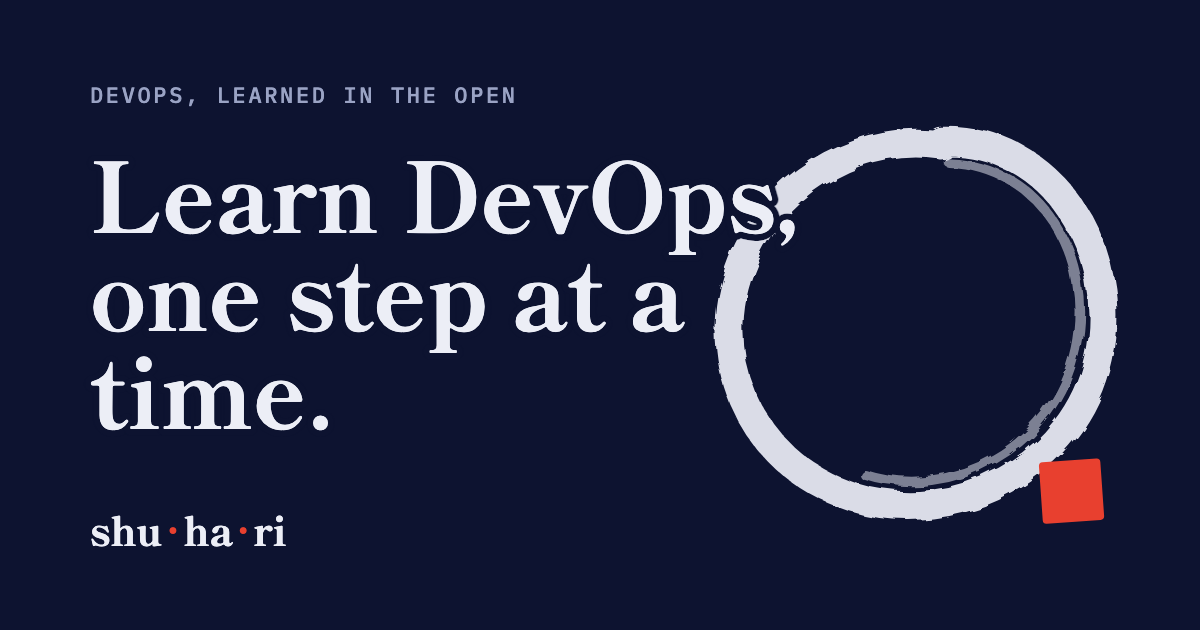
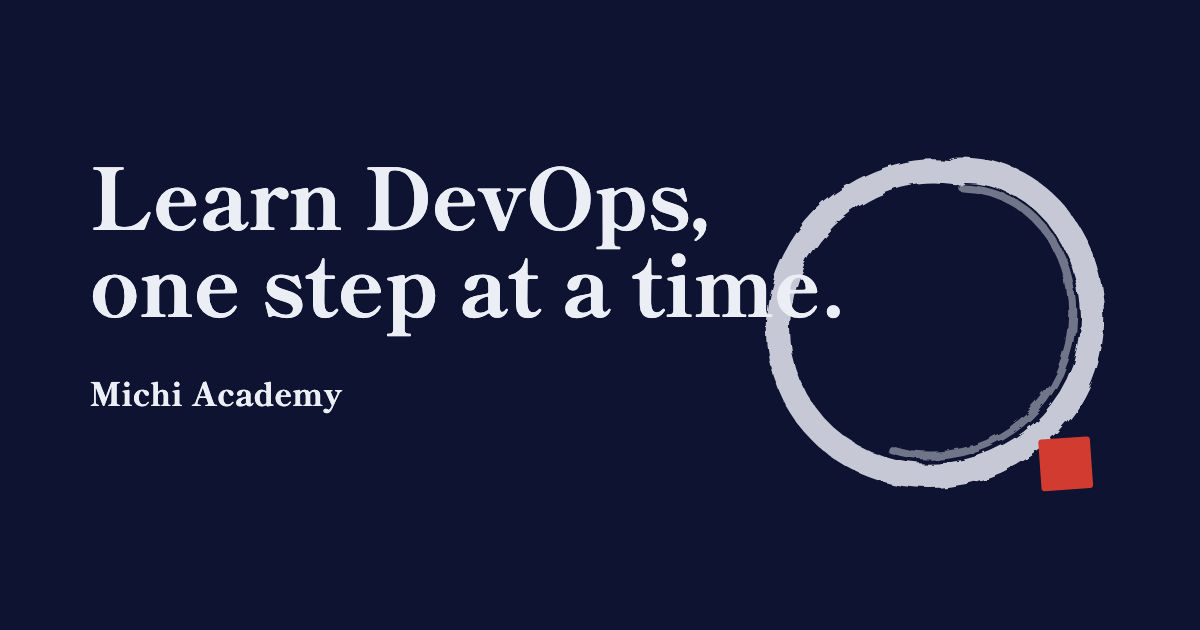
Rename the site to Michi Academy
- Change the name to Michi Academy across the layout, page titles,
  descriptions, README and curriculum comment
- Replace the shu·ha·ri definition on the home page with a short
  definition of michi, and remove the three-stage columns
- Swap the shu·ha·ri wordmark for "Michi Academy" on the social
  banners and the share image, and drop the old tagline from it
- Add a source file for the share image so it can be regenerated
- Move the site address to d-kens.github.io/michi after the repo
  rename

diff --git a/build.js b/build.js
@@ -8,9 +8,9 @@ const { marked } = require('./vendor/marked.min.js');
 const hljs = require('./vendor/highlight.min.js');
 const { NOTES, PHASES, MODULES } = require('./curriculum.js');
 
-const SITE = 'https://d-kens.github.io/shuhari';       /* the live address, without a trailing slash */
-const BASE = new URL(SITE).pathname + '/';              /* '/shuhari/': the 404 page needs absolute links */
-const NAME = 'Shuhari Academy';
+const SITE = 'https://d-kens.github.io/michi';       /* the live address, without a trailing slash */
+const BASE = new URL(SITE).pathname + '/';              /* '/michi/': the 404 page needs absolute links */
+const NAME = 'Michi Academy';
 const HOME_DESC = 'Learn DevOps, one step at a time. Detailed notes for a step-by-step path, from the DevOps mindset to running systems in production.';
 const ASSETS = ['styles.css', 'theme.js', 'search.js', 'notes.js', 'favicon.svg', 'og-image.png'];
 const LABEL = { published: 'Notes published', progress: 'In progress', coming: 'Coming' };
@@ -80,7 +80,7 @@ ${share}
 
 <div class="wrap">
   <nav aria-label="Site">
-    <a class="logo" href="${r}index.html" aria-label="${NAME}">Shuhari<span class="logo-rest" aria-hidden="true"> Academy</span></a>
+    <a class="logo" href="${r}index.html" aria-label="${NAME}">Michi<span class="logo-rest" aria-hidden="true"> Academy</span></a>
     <ul>
       ${navLink('paths.html', 'The path', 'paths')}
       ${navLink('search.html', 'Search', 'search')}
@@ -202,7 +202,7 @@ fs.rmSync(OUT, { recursive: true, force: true });
 ASSETS.forEach((f) => { fs.mkdirSync(OUT, { recursive: true }); fs.copyFileSync(path.join(ROOT, f), path.join(OUT, f)); });
 
 write('index.html', layout({ url: '', description: HOME_DESC, body: read('src/pages/index.html').replace('<!-- PATH AT A GLANCE: filled in by build.js -->', glance()) }));
-write('search.html', layout({ url: 'search.html', title: 'Search', description: 'Search the Shuhari Academy DevOps notes and curriculum.',
+write('search.html', layout({ url: 'search.html', title: 'Search', description: 'Search the Michi Academy DevOps notes and curriculum.',
   current: 'search', body: read('src/pages/search.html'), scripts: ['search.js'] }));
 write('404.html', layout({ root: BASE, title: 'Page not found', noindex: true, body: read('src/pages/404.html').replace(/href="(?![a-z]+:|\/|#)/g, `href="${BASE}`) }));
 write('paths.html', layout({ url: 'paths.html', title: 'The path', current: 'paths', body: pathsPage(),
@@ -219,7 +219,7 @@ published.forEach((m) => {
   searchIndex.push(...notes.entries);
   write(`notes/${m.slug}.html`, layout({
     root: '../', url: `notes/${m.slug}.html`, title: m.title, ogType: 'article', current: 'paths', currentKind: 'true',
-    description: `Notes for Module ${m.num} of the Shuhari DevOps path: ${m.title}. ${m.tags.join(', ')}.`,
+    description: `Notes for Module ${m.num} of the Michi Academy DevOps path: ${m.title}. ${m.tags.join(', ')}.`,
     body: notesPage(m, notes), scripts: ['notes.js']
   }));
 });

diff --git a/brand/src/banner-linkedin-1584x396.html b/brand/src/banner-linkedin-1584x396.html
@@ -7,7 +7,6 @@ html,body{margin:0;background:#0d1330;color:#eceef6;overflow:hidden}
 h1{font:800 var(--h)/1.04 "Shippori Mincho B1",serif;margin:0}
 .f{display:flex;gap:1.2em;align-items:baseline;margin-top:var(--g2);font:500 var(--k) "IBM Plex Mono",monospace;letter-spacing:.08em;color:#9aa3c4}
 .w{font:800 calc(var(--k)*1.6) "Shippori Mincho B1",serif;letter-spacing:.01em;color:#eceef6}
-.w span{color:#e8402f;padding:0 .08em}
 .enso{position:absolute}
 .t{position:absolute;z-index:1}
-.enso{left:70px;top:-120px;width:560px;opacity:.9}.t{right:80px;top:70px;text-align:right}.f{justify-content:flex-end}</style></head><body><div class="c" style="width:1584px;height:396px;--k:15px;--h:56px;--g:14px;--g2:22px"><svg class="enso" viewBox="0 0 520 520"><defs><filter id="r" x="-10%" y="-10%" width="120%" height="120%"><feTurbulence type="fractalNoise" baseFrequency="0.035" numOctaves="3" seed="7" result="n"/><feDisplacementMap in="SourceGraphic" in2="n" scale="9"/></filter></defs><g filter="url(#r)" fill="none" stroke-linecap="round" stroke="#eceef6"><path stroke-width="30" opacity=".92" d="M 292 74 C 410 70 480 190 456 300 C 432 412 308 478 200 444 C 92 410 40 290 92 186 C 130 110 214 66 292 78"/><path stroke-width="10" opacity=".5" d="M 300 96 C 398 100 452 196 432 290 C 410 392 304 450 212 420"/></g><rect x="396" y="406" width="64" height="64" rx="4" fill="#e8402f" transform="rotate(-4 428 438)"/></svg><div class="t"><h1>Learn DevOps,<br>one step at a time.</h1><div class="f"><span class="w">shu<span>·</span>ha<span>·</span>ri</span></div></div></div></body></html>
+.enso{left:70px;top:-120px;width:560px;opacity:.9}.t{right:80px;top:70px;text-align:right}.f{justify-content:flex-end}</style></head><body><div class="c" style="width:1584px;height:396px;--k:15px;--h:56px;--g:14px;--g2:22px"><svg class="enso" viewBox="0 0 520 520"><defs><filter id="r" x="-10%" y="-10%" width="120%" height="120%"><feTurbulence type="fractalNoise" baseFrequency="0.035" numOctaves="3" seed="7" result="n"/><feDisplacementMap in="SourceGraphic" in2="n" scale="9"/></filter></defs><g filter="url(#r)" fill="none" stroke-linecap="round" stroke="#eceef6"><path stroke-width="30" opacity=".92" d="M 292 74 C 410 70 480 190 456 300 C 432 412 308 478 200 444 C 92 410 40 290 92 186 C 130 110 214 66 292 78"/><path stroke-width="10" opacity=".5" d="M 300 96 C 398 100 452 196 432 290 C 410 392 304 450 212 420"/></g><rect x="396" y="406" width="64" height="64" rx="4" fill="#e8402f" transform="rotate(-4 428 438)"/></svg><div class="t"><h1>Learn DevOps,<br>one step at a time.</h1><div class="f"><span class="w">Michi Academy</span></div></div></div></body></html>

diff --git a/brand/src/banner-x-1500x500.html b/brand/src/banner-x-1500x500.html
@@ -7,7 +7,6 @@ html,body{margin:0;background:#0d1330;color:#eceef6;overflow:hidden}
 h1{font:800 var(--h)/1.04 "Shippori Mincho B1",serif;margin:0}
 .f{display:flex;gap:1.2em;align-items:baseline;margin-top:var(--g2);font:500 var(--k) "IBM Plex Mono",monospace;letter-spacing:.08em;color:#9aa3c4}
 .w{font:800 calc(var(--k)*1.6) "Shippori Mincho B1",serif;letter-spacing:.01em;color:#eceef6}
-.w span{color:#e8402f;padding:0 .08em}
 .enso{position:absolute}
 .t{position:absolute;z-index:1}
-.enso{left:40px;top:-140px;width:660px;opacity:.9}.t{right:80px;top:96px;text-align:right}.f{justify-content:flex-end}</style></head><body><div class="c" style="width:1500px;height:500px;--k:16px;--h:64px;--g:16px;--g2:26px"><svg class="enso" viewBox="0 0 520 520"><defs><filter id="r" x="-10%" y="-10%" width="120%" height="120%"><feTurbulence type="fractalNoise" baseFrequency="0.035" numOctaves="3" seed="7" result="n"/><feDisplacementMap in="SourceGraphic" in2="n" scale="9"/></filter></defs><g filter="url(#r)" fill="none" stroke-linecap="round" stroke="#eceef6"><path stroke-width="30" opacity=".92" d="M 292 74 C 410 70 480 190 456 300 C 432 412 308 478 200 444 C 92 410 40 290 92 186 C 130 110 214 66 292 78"/><path stroke-width="10" opacity=".5" d="M 300 96 C 398 100 452 196 432 290 C 410 392 304 450 212 420"/></g><rect x="396" y="406" width="64" height="64" rx="4" fill="#e8402f" transform="rotate(-4 428 438)"/></svg><div class="t"><h1>Learn DevOps,<br>one step at a time.</h1><div class="f"><span class="w">shu<span>·</span>ha<span>·</span>ri</span></div></div></div></body></html>
+.enso{left:40px;top:-140px;width:660px;opacity:.9}.t{right:80px;top:96px;text-align:right}.f{justify-content:flex-end}</style></head><body><div class="c" style="width:1500px;height:500px;--k:16px;--h:64px;--g:16px;--g2:26px"><svg class="enso" viewBox="0 0 520 520"><defs><filter id="r" x="-10%" y="-10%" width="120%" height="120%"><feTurbulence type="fractalNoise" baseFrequency="0.035" numOctaves="3" seed="7" result="n"/><feDisplacementMap in="SourceGraphic" in2="n" scale="9"/></filter></defs><g filter="url(#r)" fill="none" stroke-linecap="round" stroke="#eceef6"><path stroke-width="30" opacity=".92" d="M 292 74 C 410 70 480 190 456 300 C 432 412 308 478 200 444 C 92 410 40 290 92 186 C 130 110 214 66 292 78"/><path stroke-width="10" opacity=".5" d="M 300 96 C 398 100 452 196 432 290 C 410 392 304 450 212 420"/></g><rect x="396" y="406" width="64" height="64" rx="4" fill="#e8402f" transform="rotate(-4 428 438)"/></svg><div class="t"><h1>Learn DevOps,<br>one step at a time.</h1><div class="f"><span class="w">Michi Academy</span></div></div></div></body></html>

diff --git a/brand/src/github-social-1280x640.html b/brand/src/github-social-1280x640.html
@@ -7,7 +7,6 @@ html,body{margin:0;background:#0d1330;color:#eceef6;overflow:hidden}
 h1{font:800 var(--h)/1.04 "Shippori Mincho B1",serif;margin:0}
 .f{display:flex;gap:1.2em;align-items:baseline;margin-top:var(--g2);font:500 var(--k) "IBM Plex Mono",monospace;letter-spacing:.08em;color:#9aa3c4}
 .w{font:800 calc(var(--k)*1.6) "Shippori Mincho B1",serif;letter-spacing:.01em;color:#eceef6}
-.w span{color:#e8402f;padding:0 .08em}
 .enso{position:absolute}
 .t{position:absolute;z-index:1}
-.enso{right:50px;top:90px;width:470px}.t{left:84px;top:150px;max-width:720px}</style></head><body><div class="c" style="width:1280px;height:640px;--k:20px;--h:72px;--g:26px;--g2:44px"><svg class="enso" viewBox="0 0 520 520"><defs><filter id="r" x="-10%" y="-10%" width="120%" height="120%"><feTurbulence type="fractalNoise" baseFrequency="0.035" numOctaves="3" seed="7" result="n"/><feDisplacementMap in="SourceGraphic" in2="n" scale="9"/></filter></defs><g filter="url(#r)" fill="none" stroke-linecap="round" stroke="#eceef6"><path stroke-width="30" opacity=".92" d="M 292 74 C 410 70 480 190 456 300 C 432 412 308 478 200 444 C 92 410 40 290 92 186 C 130 110 214 66 292 78"/><path stroke-width="10" opacity=".5" d="M 300 96 C 398 100 452 196 432 290 C 410 392 304 450 212 420"/></g><rect x="396" y="406" width="64" height="64" rx="4" fill="#e8402f" transform="rotate(-4 428 438)"/></svg><div class="t"><h1>Learn DevOps,<br>one step at a time.</h1><div class="f"><span class="w">shu<span>·</span>ha<span>·</span>ri</span></div></div></div></body></html>
+.enso{right:50px;top:90px;width:470px}.t{left:84px;top:150px;max-width:720px}</style></head><body><div class="c" style="width:1280px;height:640px;--k:20px;--h:72px;--g:26px;--g2:44px"><svg class="enso" viewBox="0 0 520 520"><defs><filter id="r" x="-10%" y="-10%" width="120%" height="120%"><feTurbulence type="fractalNoise" baseFrequency="0.035" numOctaves="3" seed="7" result="n"/><feDisplacementMap in="SourceGraphic" in2="n" scale="9"/></filter></defs><g filter="url(#r)" fill="none" stroke-linecap="round" stroke="#eceef6"><path stroke-width="30" opacity=".92" d="M 292 74 C 410 70 480 190 456 300 C 432 412 308 478 200 444 C 92 410 40 290 92 186 C 130 110 214 66 292 78"/><path stroke-width="10" opacity=".5" d="M 300 96 C 398 100 452 196 432 290 C 410 392 304 450 212 420"/></g><rect x="396" y="406" width="64" height="64" rx="4" fill="#e8402f" transform="rotate(-4 428 438)"/></svg><div class="t"><h1>Learn DevOps,<br>one step at a time.</h1><div class="f"><span class="w">Michi Academy</span></div></div></div></body></html>

diff --git a/brand/src/banner-youtube-2560x1440.html b/brand/src/banner-youtube-2560x1440.html
@@ -7,7 +7,6 @@ html,body{margin:0;background:#0d1330;color:#eceef6;overflow:hidden}
 h1{font:800 var(--h)/1.04 "Shippori Mincho B1",serif;margin:0}
 .f{display:flex;gap:1.2em;align-items:baseline;margin-top:var(--g2);font:500 var(--k) "IBM Plex Mono",monospace;letter-spacing:.08em;color:#9aa3c4}
 .w{font:800 calc(var(--k)*1.6) "Shippori Mincho B1",serif;letter-spacing:.01em;color:#eceef6}
-.w span{color:#e8402f;padding:0 .08em}
 .enso{position:absolute}
 .t{position:absolute;z-index:1}
-.enso{left:540px;top:520px;width:400px}.t{left:1010px;top:590px}</style></head><body><div class="c" style="width:2560px;height:1440px;--k:20px;--h:76px;--g:18px;--g2:30px"><svg class="enso" viewBox="0 0 520 520"><defs><filter id="r" x="-10%" y="-10%" width="120%" height="120%"><feTurbulence type="fractalNoise" baseFrequency="0.035" numOctaves="3" seed="7" result="n"/><feDisplacementMap in="SourceGraphic" in2="n" scale="9"/></filter></defs><g filter="url(#r)" fill="none" stroke-linecap="round" stroke="#eceef6"><path stroke-width="30" opacity=".92" d="M 292 74 C 410 70 480 190 456 300 C 432 412 308 478 200 444 C 92 410 40 290 92 186 C 130 110 214 66 292 78"/><path stroke-width="10" opacity=".5" d="M 300 96 C 398 100 452 196 432 290 C 410 392 304 450 212 420"/></g><rect x="396" y="406" width="64" height="64" rx="4" fill="#e8402f" transform="rotate(-4 428 438)"/></svg><div class="t"><h1>Learn DevOps,<br>one step at a time.</h1><div class="f"><span class="w">shu<span>·</span>ha<span>·</span>ri</span></div></div></div></body></html>
+.enso{left:540px;top:520px;width:400px}.t{left:1010px;top:590px}</style></head><body><div class="c" style="width:2560px;height:1440px;--k:20px;--h:76px;--g:18px;--g2:30px"><svg class="enso" viewBox="0 0 520 520"><defs><filter id="r" x="-10%" y="-10%" width="120%" height="120%"><feTurbulence type="fractalNoise" baseFrequency="0.035" numOctaves="3" seed="7" result="n"/><feDisplacementMap in="SourceGraphic" in2="n" scale="9"/></filter></defs><g filter="url(#r)" fill="none" stroke-linecap="round" stroke="#eceef6"><path stroke-width="30" opacity=".92" d="M 292 74 C 410 70 480 190 456 300 C 432 412 308 478 200 444 C 92 410 40 290 92 186 C 130 110 214 66 292 78"/><path stroke-width="10" opacity=".5" d="M 300 96 C 398 100 452 196 432 290 C 410 392 304 450 212 420"/></g><rect x="396" y="406" width="64" height="64" rx="4" fill="#e8402f" transform="rotate(-4 428 438)"/></svg><div class="t"><h1>Learn DevOps,<br>one step at a time.</h1><div class="f"><span class="w">Michi Academy</span></div></div></div></body></html>

diff --git a/brand/src/og-image-1200x630.html b/brand/src/og-image-1200x630.html
@@ -1,0 +1,12 @@
+<!doctype html><html><head><meta charset="utf-8">
+<link rel="stylesheet" href="https://fonts.googleapis.com/css2?family=Shippori+Mincho+B1:wght@800&family=IBM+Plex+Mono:wght@500&display=swap">
+<style>
+html,body{margin:0;background:#0d1330;color:#eceef6;overflow:hidden}
+.c{position:relative;overflow:hidden;background:#0d1330}
+.k{font:500 var(--k) "IBM Plex Mono",monospace;letter-spacing:.12em;text-transform:uppercase;color:#9aa3c4}
+h1{font:800 var(--h)/1.04 "Shippori Mincho B1",serif;margin:0}
+.f{display:flex;gap:1.2em;align-items:baseline;margin-top:var(--g2);font:500 var(--k) "IBM Plex Mono",monospace;letter-spacing:.08em;color:#9aa3c4}
+.w{font:800 calc(var(--k)*1.6) "Shippori Mincho B1",serif;letter-spacing:.01em;color:#eceef6}
+.enso{position:absolute}
+.t{position:absolute;z-index:1}
+.enso{right:60px;top:110px;width:420px;opacity:.9}.t{left:90px;top:150px}</style></head><body><div class="c" style="width:1200px;height:630px;--k:20px;--h:84px;--g:16px;--g2:44px"><svg class="enso" viewBox="0 0 520 520"><defs><filter id="r" x="-10%" y="-10%" width="120%" height="120%"><feTurbulence type="fractalNoise" baseFrequency="0.035" numOctaves="3" seed="7" result="n"/><feDisplacementMap in="SourceGraphic" in2="n" scale="9"/></filter></defs><g filter="url(#r)" fill="none" stroke-linecap="round" stroke="#eceef6"><path stroke-width="30" opacity=".92" d="M 292 74 C 410 70 480 190 456 300 C 432 412 308 478 200 444 C 92 410 40 290 92 186 C 130 110 214 66 292 78"/><path stroke-width="10" opacity=".5" d="M 300 96 C 398 100 452 196 432 290 C 410 392 304 450 212 420"/></g><rect x="396" y="406" width="64" height="64" rx="4" fill="#e8402f" transform="rotate(-4 428 438)"/></svg><div class="t"><h1>Learn DevOps,<br>one step at a time.</h1><div class="f"><span class="w">Michi Academy</span></div></div></div></body></html>

diff --git a/src/pages/index.html b/src/pages/index.html
@@ -5,15 +5,10 @@
     <div class="cta"><a class="btn" href="notes/devops-mindset.html">Start with Module 01</a><a class="link" href="paths.html">See the full path</a></div>
   </header>
   <section class="define" aria-labelledby="def-word"><div class="entry">
-    <p class="word" id="def-word">shu<span aria-hidden="true">·</span>ha<span aria-hidden="true">·</span>ri</p>
-    <p class="mono pron"><span>/ shoo · hah · ree /</span><span>noun</span><span>from Japanese martial arts</span></p>
-    <p class="gloss">The three stages on the road to mastery, and the way this path is taught.</p>
-  </div>
-  <ol class="stages">
-    <li><span class="kanji" lang="ja" aria-hidden="true">守</span><h3>Shu: keep the rules</h3><p>Read a module's notes and follow them step by step, exactly as written.</p></li>
-    <li><span class="kanji" lang="ja" aria-hidden="true">破</span><h3>Ha: break them</h3><p>Do the module's lab. Change the setup, break it on purpose, and work out why.</p></li>
-    <li><span class="kanji" lang="ja" aria-hidden="true">離</span><h3>Ri: leave them behind</h3><p>Build your own setup without the notes. The capstone project is where it all comes together.</p></li>
-  </ol></section>
+    <p class="word" id="def-word">michi</p>
+    <p class="mono pron"><span>/ mee · chee /</span><span>noun</span><span>Japanese</span></p>
+    <p class="gloss">The way: the path you follow to master a craft.</p>
+  </div></section>
   <!-- PATH AT A GLANCE: filled in by build.js -->
   <section class="notify" id="notify" aria-labelledby="notify-title">
     <div>

diff --git a/styles.css b/styles.css
@@ -79,14 +79,6 @@ section { padding-block: 88px; }
 .define .gloss { font: 500 16px/1.5 var(--f-display); margin-top: 12px; max-width: 38em; color: var(--muted); }
 .define .gloss em { font-style: normal; text-decoration: underline; text-decoration-color: var(--red); text-decoration-thickness: 2px; text-underline-offset: 5px; }
 @media (max-width: 860px) { .define .pron span + span::before { display: none; } }
-.stages { list-style: none; margin: 40px 0 0; padding: 0; display: grid; grid-template-columns: repeat(3, minmax(0, 1fr)); border-top: 1px solid var(--fg); }
-.stages li { padding: 22px 28px 0 0; }
-.stages li + li { padding-left: 28px; border-left: 1px solid var(--line); }
-.stages .kanji { display: block; font: 800 40px/1 var(--f-display); color: var(--red); }
-.stages h3 { font-size: clamp(22px, 2.4vw, 28px); margin-block: 14px 8px; }
-.stages p { color: var(--muted); font-size: 16px; line-height: 1.5; }
-@media (max-width: 860px) { .stages { grid-template-columns: 1fr; } .stages li, .stages li + li { padding: 22px 0; border-left: 0; } .stages li + li { border-top: 1px solid var(--line); } }
-
 /* the path at a glance */
 .home > .glance { padding-top: 0; }
 .glance h2 { font-size: clamp(32px, 4.4vw, 54px); margin-top: 10px; }

diff --git a/curriculum.js b/curriculum.js
@@ -1,4 +1,4 @@
-/* Shuhari curriculum: read by build.js to make the path page, the notes pages and the search index. */
+/* Michi Academy curriculum: read by build.js to make the path page, the notes pages and the search index. */
 (function () {
   /* ---------- publishing status ----------
      When you publish notes for a module:

diff --git a/README.md b/README.md
@@ -1,8 +1,8 @@
-# Shuhari Academy
+# Michi Academy
 
 Learn DevOps, one step at a time. A static site of detailed notes for a step-by-step path, from the DevOps mindset to running systems in production.
 
-Live at <https://d-kens.github.io/shuhari/>.
+Live at <https://d-kens.github.io/michi/>.
 
 ## Run it locally
 
@@ -40,4 +40,4 @@ Old links like `notes.html?m=linux` redirect to `notes/linux.html`.
 
 ## Search engines
 
-The build writes `sitemap.xml`. Submit `https://d-kens.github.io/shuhari/sitemap.xml` in Google Search Console. A project site can't serve its own `robots.txt`, so the sitemap has to be submitted by hand.
+The build writes `sitemap.xml`. Submit `https://d-kens.github.io/michi/sitemap.xml` in Google Search Console. A project site can't serve its own `robots.txt`, so the sitemap has to be submitted by hand.
